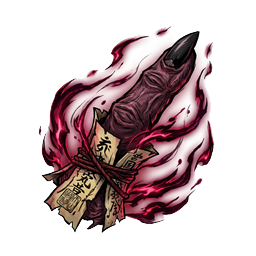
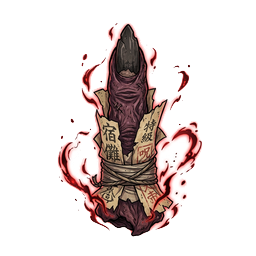
feat: implement Sukuna's Finger relic and Divergent Fist power

diff --git a/src/main/java/jujutsumod/relics/SukunaFinger.java b/src/main/java/jujutsumod/relics/SukunaFinger.java
@@ -7,6 +7,7 @@ import com.megacrit.cardcrawl.actions.common.RelicAboveCreatureAction;
 import com.megacrit.cardcrawl.cards.AbstractCard;
 import com.megacrit.cardcrawl.dungeons.AbstractDungeon;
 import com.megacrit.cardcrawl.powers.StrengthPower;
+import static jujutsumod.BasicMod.makeID;
 
 public class SukunaFinger extends BaseRelic {
     public static final String ID = makeID("SukunaFinger");
@@ -23,11 +24,12 @@ public class SukunaFinger extends BaseRelic {
     }
 
     @Override
-    public void onPlayCard(AbstractCard c, com.megacrit.cardcrawl.monsters.AbstractMonster m) {
-        if (c.costForTurn == 0 || (c.freeToPlayOnce && c.cost != -1)) {
+    public void onUseCard(AbstractCard c, com.megacrit.cardcrawl.actions.utility.UseCardAction action) {
+        if (c.type == AbstractCard.CardType.ATTACK && AbstractDungeon.cardRandomRng.random(99) < 10) {
             flash();
-            addToBot(new GainEnergyAction(1));
-            addToBot(new LoseHPAction(AbstractDungeon.player, AbstractDungeon.player, 1));
+            AbstractCard copy = c.makeStatEquivalentCopy();
+            copy.setCostForTurn(0);
+            addToBot(new com.megacrit.cardcrawl.actions.common.MakeTempCardInHandAction(copy));
         }
     }
 

diff --git a/src/main/java/jujutsumod/powers/DivergentFistPower.java b/src/main/java/jujutsumod/powers/DivergentFistPower.java
@@ -7,6 +7,7 @@ import com.megacrit.cardcrawl.cards.DamageInfo;
 import com.megacrit.cardcrawl.core.AbstractCreature;
 import com.megacrit.cardcrawl.core.CardCrawlGame;
 import com.megacrit.cardcrawl.localization.PowerStrings;
+import static jujutsumod.BasicMod.makeID;
 
 public class DivergentFistPower extends BasePower {
     public static final String POWER_ID = makeID("DivergentFistPower");

diff --git a/src/main/java/jujutsumod/BasicMod.java b/src/main/java/jujutsumod/BasicMod.java
@@ -38,6 +38,7 @@ public class BasicMod implements
         EditStringsSubscriber,
         EditKeywordsSubscriber,
         AddAudioSubscriber,
+        PostInitializeSubscriber,
         EditCardsSubscriber,
         EditRelicsSubscriber {
     public static ModInfo info;
